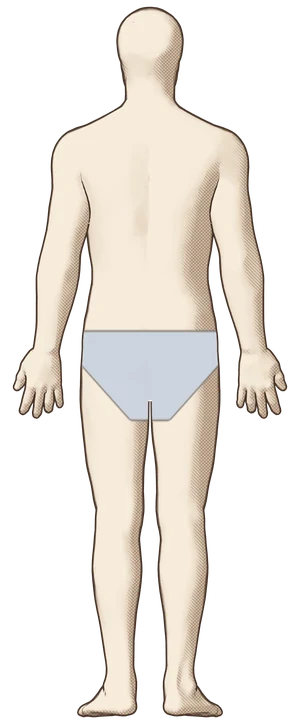
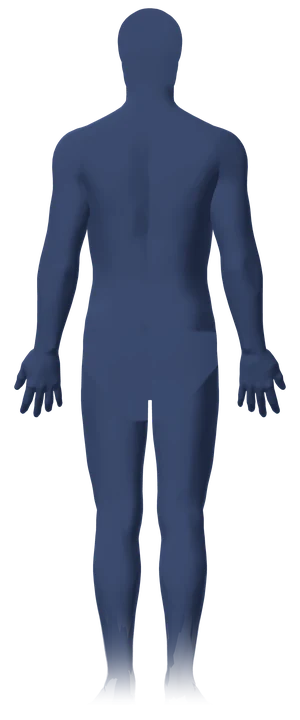
Suivi : carte du corps façon application (zones colorées, pastilles, carte d'état)
- Silhouettes bleu nuit de face et de dos (d'après BodyParts3D, CC BY 4.0)
- Zones en pilule : vert coché = le plus reposé, orange avec « 2 j » = utilisé
  ces 3 derniers jours, contour = disponible ; flancs gauche et droit ajoutés
- En-tête « Dernier : … », carte de l'endroit choisi, liste complète repliable
- Surfaces de clic agrandies, textes FR / EN / AR, mode sombre

Claude-Session: https://claude.ai/code/session_01DJcaTqVg4gRoRzVNXaW9u5

diff --git a/suivi/suivi.js b/suivi/suivi.js
@@ -67,6 +67,8 @@ const SITES = [
   { id: "arm-r", fr: "Bras droit", en: "Right arm", ar: "الذراع الأيمن" },
   { id: "glute-l", fr: "Fessier gauche", en: "Left glute", ar: "الألية اليسرى" },
   { id: "glute-r", fr: "Fessier droit", en: "Right glute", ar: "الألية اليمنى" },
+  { id: "flank-l", fr: "Flanc gauche", en: "Left flank", ar: "الخاصرة اليسرى" },
+  { id: "flank-r", fr: "Flanc droit", en: "Right flank", ar: "الخاصرة اليمنى" },
 ];
 const siteName = (id) => { const x = SITES.find((k) => k.id === id); return x ? t(x.fr, x.en, x.ar) : ""; };
 
@@ -573,28 +575,35 @@ function lastBySite() {
   }));
   return last;
 }
-const restLevel = (ms) => { if (ms === undefined) return "rest"; const d = dayDiff(ms, Date.now()); return d < 2 ? "fresh" : d < 7 ? "mid" : "rest"; };
-const SIDE = { fr: ["D", "G"], en: ["R", "L"], ar: ["يمين", "يسار"] }[LANG] || ["R", "L"];
-// Croquis anatomiques rendus depuis le modèle BodyParts3D (images 300 × 720) et position de chaque endroit sur l'image.
+const SIDE = { fr: ["D", "G"], en: ["R", "L"], ar: ["ي", "س"] }[LANG] || ["R", "L"];
+// Silhouettes rendues depuis le modèle BodyParts3D (images 300 × 720) et position de chaque endroit sur l'image.
 // De face, la gauche de la personne est à droite de l'image ; de dos, elle est à gauche.
-const BODY_MAP = {"front": [["abd-l", 176.9, 304.3, 17.1, 20.6], ["abd-r", 123.1, 304.3, 17.1, 20.6], ["thigh-l", 186.9, 425.6, 18.3, 35], ["thigh-r", 113.6, 425.6, 18.3, 35]], "back": [["arm-l", 67.5, 201.9, 13, 24.7], ["arm-r", 232.2, 201.9, 13, 24.7], ["glute-l", 107.7, 343.4, 20.4, 17.3], ["glute-r", 192.3, 343.4, 20.4, 17.3]]};
+const BODY_MAP = {"front": [["abd-l", 176.9, 304.3, 17.1, 20.6], ["abd-r", 123.1, 304.3, 17.1, 20.6], ["thigh-l", 186.9, 425.6, 18.3, 35], ["thigh-r", 113.6, 425.6, 18.3, 35]], "back": [["arm-l", 67.5, 201.9, 13, 24.7], ["arm-r", 232.2, 201.9, 13, 24.7], ["glute-l", 110.1, 351.6, 20.4, 16.5], ["glute-r", 189.9, 351.6, 20.4, 16.5], ["flank-l", 107.2, 296.1, 13, 22.6], ["flank-r", 192.8, 296.1, 13, 22.6]]};
+const NAVEL = [150, 302.3, 12.2];
+const RECENT_DAYS = 3;
 function bodyView(key, label, marks) {
+  // Chaque zone : une surface de clic plus large (invisible), la pilule, la pastille « 2 j » au-dessus, la coche au centre
+  const hits = (x, y, own) => BODY_MAP[key].some(([o, ox, oy, orx, ory]) => o !== own && Math.abs(x - ox) < orx + 30 && Math.abs(y - oy) < ory + 15);
+  const zonesSvg = BODY_MAP[key].map(([id, cx, cy, rx, ry]) => { const by = hits(cx, cy - ry - 16, id) ? cy + ry + 16 : cy - ry - 16; return `<g class="bm-z" data-site="${id}">
+      <rect class="bm-hit" x="${(cx - rx - 10).toFixed(1)}" y="${(cy - ry - 8).toFixed(1)}" width="${(2 * rx + 20).toFixed(1)}" height="${(2 * ry + 16).toFixed(1)}"/>
+      <rect class="bm-zone" x="${(cx - rx).toFixed(1)}" y="${(cy - ry).toFixed(1)}" width="${(2 * rx).toFixed(1)}" height="${(2 * ry).toFixed(1)}" rx="${Math.min(rx, ry).toFixed(1)}"/>
+      <g class="bm-badge" transform="translate(${cx.toFixed(1)} ${by.toFixed(1)})"><rect x="-23" y="-15" width="46" height="30" rx="15"/><text y="6"></text></g>
+      <g class="bm-check" transform="translate(${cx.toFixed(1)} ${cy.toFixed(1)})"><circle r="14"/><path d="M-6.5 0.5l4.5 4.5 8.5-9.5"/></g>
+    </g>`; }).join("");
+  const navel = key === "front" ? `<circle class="bm-navel" cx="${NAVEL[0]}" cy="${NAVEL[1]}" r="${NAVEL[2]}"/>` : "";
   return `<figure class="bm-view">
     <div class="bm-frame">
       <img src="/suivi/img/corps-${key === "front" ? "face" : "dos"}.webp" alt="" width="300" height="720" decoding="async">
-      <svg viewBox="0 0 300 720" aria-hidden="true">
-        ${BODY_MAP[key].map(([id, cx, cy, rx, ry]) => `<ellipse class="bm-zone" data-site="${id}" cx="${cx}" cy="${cy}" rx="${rx}" ry="${ry}"/>`).join("")}
-        <text class="bm-side" x="14" y="44">${marks[0]}</text><text class="bm-side" x="286" y="44" text-anchor="end">${marks[1]}</text>
-      </svg>
+      <svg viewBox="0 0 300 720" aria-hidden="true">${navel}${zonesSvg}</svg>
     </div>
-    <figcaption>${label}</figcaption>
+    <figcaption><span>${marks[0]}</span>${label}<span>${marks[1]}</span></figcaption>
   </figure>`;
 }
 function buildSiteMap() {
   const [right, left] = SIDE;
   $("siteMap").innerHTML = bodyView("front", t("Devant", "Front", "الأمام"), [right, left]) + bodyView("back", t("Dos", "Back", "الخلف"), [left, right])
-    + `<p class="bm-credit">${t("Croquis d'après BodyParts3D, © DBCLS, CC BY 4.0", "Sketch based on BodyParts3D, © DBCLS, CC BY 4.0", "رسم مأخوذ من BodyParts3D، © DBCLS، CC BY 4.0")}</p>`;
-  $("siteMap").querySelectorAll(".bm-zone").forEach((z) => z.addEventListener("click", () => selectSite(site === z.dataset.site ? "" : z.dataset.site)));
+    + `<p class="bm-credit">${t("Silhouette d'après BodyParts3D, © DBCLS, CC BY 4.0", "Silhouette based on BodyParts3D, © DBCLS, CC BY 4.0", "صورة مأخوذة من BodyParts3D، © DBCLS، CC BY 4.0")}</p>`;
+  $("siteMap").querySelectorAll(".bm-z").forEach((z) => z.addEventListener("click", () => selectSite(site === z.dataset.site ? "" : z.dataset.site)));
   $("siteList").replaceChildren(...SITES.map((k) => {
     const b = document.createElement("button");
     b.type = "button";
@@ -603,30 +612,56 @@ function buildSiteMap() {
     b.addEventListener("click", () => selectSite(site === k.id ? "" : k.id));
     return b;
   }));
+  $("siteToggle").addEventListener("click", () => {
+    const open = $("siteList").hidden;
+    $("siteList").hidden = !open;
+    $("siteToggle").setAttribute("aria-expanded", String(open));
+  });
 }
+// État d'un endroit : le plus reposé (vert, coché), utilisé ces 3 derniers jours (orange, « 2 j »), ou disponible
+const restDays = (ms) => (ms === undefined ? null : dayDiff(ms, Date.now()));
+// Pastille courte : « 2 j » / « 2d » ; en arabe un mot (اليوم, أمس, يومان, 3 أيام), la pastille s'élargit
+const badgeTxt = (d) => (LANG === "ar" ? ["اليوم", "أمس", "يومان"][d] || `${d} أيام` : `${d}${t(" j", "d", "")}`);
 function renderSites() {
-  const last = lastBySite(), now = Date.now();
-  // Le plus reposé : jamais utilisé en premier, sinon la dernière prise la plus ancienne
+  const last = lastBySite();
+  // Le plus reposé : rien n'est coché tant qu'aucune prise n'a d'endroit ; à égalité (jamais utilisé), le premier de la liste
   let best = null;
-  SITES.forEach((k) => { if (best === null || (last[k.id] ?? -Infinity) < (last[best] ?? -Infinity)) best = k.id; });
-  $("siteMap").querySelectorAll(".bm-zone").forEach((z) => {
-    z.setAttribute("class", `bm-zone is-${restLevel(last[z.dataset.site])}${z.dataset.site === site ? " is-sel" : ""}`);
+  if (Object.keys(last).length) SITES.forEach((k) => { if (best === null || (last[k.id] ?? -Infinity) < (last[best] ?? -Infinity)) best = k.id; });
+  const state = (id) => (id === best ? "best" : restDays(last[id]) !== null && restDays(last[id]) <= RECENT_DAYS ? "recent" : "free");
+  $("siteMap").querySelectorAll(".bm-z").forEach((z) => {
+    const id = z.dataset.site, d = restDays(last[id]);
+    z.setAttribute("class", `bm-z is-${state(id)}${id === site ? " is-sel" : ""}`);
+    const txt = d === null ? "" : badgeTxt(d), w = Math.max(46, txt.length * 11 + 14);
+    z.querySelector(".bm-badge text").textContent = txt;
+    z.querySelector(".bm-badge rect").setAttribute("x", String(-w / 2));
+    z.querySelector(".bm-badge rect").setAttribute("width", String(w));
   });
   $("siteList").querySelectorAll(".site-btn").forEach((b) => {
-    const id = b.dataset.site, ms = last[id];
-    const d = ms === undefined ? null : dayDiff(ms, now);
+    const id = b.dataset.site, d = restDays(last[id]);
     const dot = document.createElement("i");
-    dot.className = `is-${restLevel(ms)}`;
+    dot.className = `is-${state(id)}`;
     const nm = document.createElement("b");
     nm.textContent = siteName(id);
     const rest = document.createElement("span");
     rest.textContent = d === null ? t("jamais utilisé", "never used", "لم يُستخدم")
       : d === 0 ? t("utilisé aujourd'hui", "used today", "استُخدم اليوم")
-      : t(`repos : ${days(d)}`, `rested ${days(d)}`, `راحة: ${days(d)}`);
+      : t(`il y a ${days(d)}`, `${days(d)} ago`, `منذ ${days(d)}`);
     b.replaceChildren(dot, nm, rest);
-    if (id === best) { const em = document.createElement("em"); em.textContent = t("le plus reposé", "most rested", "الأكثر راحة"); b.append(em); }
     b.setAttribute("aria-pressed", String(id === site));
   });
+  // Dernier endroit utilisé (en-tête) et carte de l'endroit choisi, ou du dernier utilisé
+  let lastId = null;
+  Object.keys(last).forEach((id) => { if (lastId === null || last[id] > last[lastId]) lastId = id; });
+  $("siteLast").textContent = lastId ? t(`Dernier : ${siteName(lastId).toLowerCase()}`, `Last: ${siteName(lastId).toLowerCase()}`, `الأخير: ${siteName(lastId)}`) : "";
+  const shown = site || lastId || best;
+  const st = state(shown), d = restDays(last[shown]);
+  $("siteCard").hidden = !shown;
+  $("siteCard").dataset.state = st;
+  $("scK").textContent = st === "best" ? t("Le plus reposé", "Most rested", "الأكثر راحة") : st === "recent" ? t("Utilisé récemment", "Used recently", "استُخدم مؤخرًا") : t("Disponible", "Available", "متاح");
+  $("scName").textContent = siteName(shown) + (site ? "" : ` · ${t("non choisi", "not selected", "غير محدد")}`);
+  $("scWhen").textContent = d === null ? t("Jamais utilisé", "Never used", "لم يُستخدم قط")
+    : d === 0 ? t("Dernière prise : aujourd'hui", "Last used today", "آخر استخدام: اليوم")
+    : t(`Dernière prise : il y a ${days(d)}`, `Last used ${days(d)} ago`, `آخر استخدام: منذ ${days(d)}`);
 }
 function selectSite(id) { site = id; renderSites(); }
 

diff --git a/suivi/suivi.css b/suivi/suivi.css
@@ -3,16 +3,19 @@
 :root {
   --liq-top: rgba(122, 160, 214, .5); --liq-bot: rgba(52, 92, 156, .66); --liq-edge: rgba(255, 255, 255, .85);
   --glass: rgba(255, 255, 255, .42); --glass-edge: rgba(28, 26, 23, .5); --metal: #b8bbc1; --metal-line: rgba(0, 0, 0, .14);
+  --bm-bg: #ffffff; --bm-bg-2: #e4e9f1; --bm-ok: #3f9a73; --bm-ok-ink: #2f6e52; --bm-warn: #eaa13a; --bm-warn-ink: #8a5408;
 }
 @media (prefers-color-scheme: dark) {
   :root:not([data-theme="light"]) {
     --liq-top: rgba(147, 179, 224, .42); --liq-bot: rgba(104, 146, 210, .6); --liq-edge: rgba(220, 234, 255, .75);
     --glass: rgba(255, 255, 255, .05); --glass-edge: rgba(238, 231, 217, .45); --metal: #6c7280; --metal-line: rgba(0, 0, 0, .3);
+    --bm-bg: #222b3d; --bm-bg-2: #121722; --bm-ok: #46a87f; --bm-ok-ink: #8fd6b4; --bm-warn: #eaa13a; --bm-warn-ink: #f2bf6f;
   }
 }
 :root[data-theme="dark"] {
   --liq-top: rgba(147, 179, 224, .42); --liq-bot: rgba(104, 146, 210, .6); --liq-edge: rgba(220, 234, 255, .75);
   --glass: rgba(255, 255, 255, .05); --glass-edge: rgba(238, 231, 217, .45); --metal: #6c7280; --metal-line: rgba(0, 0, 0, .3);
+  --bm-bg: #222b3d; --bm-bg-2: #121722; --bm-ok: #46a87f; --bm-ok-ink: #8fd6b4; --bm-warn: #eaa13a; --bm-warn-ink: #f2bf6f;
 }
 [hidden] { display: none !important; }
 
@@ -177,40 +180,63 @@ html[lang="ar"] :is(.ro-k, .history h3) { font-size: .86rem; letter-spacing: 0; 
 }
 .swatch[aria-pressed="true"] { box-shadow: 0 0 0 2px var(--paper), 0 0 0 4px var(--sw); transform: scale(1.06); }
 
-/* Endroit de la prise : silhouette de face et de dos + boutons */
-.site-pick { display: grid; grid-template-columns: minmax(0, 1fr) minmax(0, 1.15fr); gap: 14px; align-items: start; }
-@media (max-width: 560px) { .site-pick { grid-template-columns: minmax(0, 1fr); } }
-/* Croquis anatomiques (face / dos) avec les zones par-dessus */
-.site-map { display: grid; grid-template-columns: 1fr 1fr; gap: 6px 10px; direction: ltr; padding: 10px 8px 6px; border-radius: 14px;
-  background: radial-gradient(ellipse 70% 60% at 50% 45%, var(--paper), transparent 75%), var(--field); }
-.bm-view { margin: 0; text-align: center; }
-.bm-frame { position: relative; width: 100%; max-width: 150px; margin-inline: auto; aspect-ratio: 300 / 720; }
+/* Endroit de la prise : deux silhouettes (face / dos) avec les zones par-dessus, comme une carte */
+.site-head { display: flex; flex-wrap: wrap; align-items: baseline; justify-content: space-between; gap: 2px 12px; }
+.site-last { font-size: .8rem; color: var(--muted); }
+.site-map { display: grid; grid-template-columns: 1fr 1fr; gap: 4px 6px; direction: ltr; margin-top: 8px; padding: 16px 10px 8px;
+  border: 1px solid var(--line); border-radius: 18px; background: radial-gradient(ellipse 80% 70% at 50% 40%, var(--bm-bg), var(--bm-bg-2) 85%); }
+.bm-view { margin: 0; }
+.bm-frame { position: relative; width: 100%; max-width: 196px; margin-inline: auto; aspect-ratio: 300 / 720; }
 .bm-frame img, .bm-frame svg { position: absolute; inset: 0; width: 100%; height: 100%; }
-.bm-frame img { filter: drop-shadow(0 6px 8px rgba(40, 30, 20, .12)); }
-.bm-view figcaption { margin-top: 2px; font: 700 .76rem/1.2 var(--f-body); color: var(--sumi-2); }
-.bm-credit { grid-column: 1 / -1; margin: 2px 0 0; font-size: .64rem; color: var(--muted); text-align: center; }
-.bm-zone { cursor: pointer; stroke-width: 3; stroke-dasharray: 7 5; transition: fill .2s, stroke .2s, stroke-width .2s; }
-.bm-zone.is-fresh { fill: var(--shu); fill-opacity: .42; stroke: var(--shu); }
-.bm-zone.is-mid { fill: var(--kin); fill-opacity: .4; stroke: var(--kin); }
-.bm-zone.is-rest { fill: var(--matcha); fill-opacity: .34; stroke: var(--matcha); }
-@media (hover: hover) { .bm-zone:hover { fill-opacity: .6; } }
-.bm-zone.is-sel { fill-opacity: .7; stroke: var(--sumi); stroke-width: 5; stroke-dasharray: none; }
-.bm-side { fill: var(--muted); font: 700 26px var(--f-body); }
-.site-list { display: grid; grid-template-columns: repeat(2, minmax(0, 1fr)); gap: 6px; }
+.bm-frame img { filter: drop-shadow(0 10px 12px rgba(20, 30, 60, .22)); }
+.bm-frame svg { overflow: visible; }
+.bm-view figcaption { display: flex; justify-content: space-between; align-items: baseline; max-width: 196px; margin: 4px auto 0; padding-inline: 4px;
+  font: 700 .8rem/1.2 var(--f-body); color: var(--sumi); }
+.bm-view figcaption span { font-size: .72rem; color: var(--muted); }
+.bm-credit { grid-column: 1 / -1; margin: 6px 0 0; font-size: .64rem; color: var(--muted); text-align: center; }
+.bm-navel { fill: none; stroke: rgba(226, 234, 248, .75); stroke-width: 2; stroke-dasharray: 3 3; }
+.bm-z { cursor: pointer; }
+.bm-hit { fill: transparent; }
+.bm-zone { fill: rgba(255, 255, 255, .06); stroke: rgba(226, 234, 248, .8); stroke-width: 2.5; stroke-dasharray: 6 5; transition: fill .2s, stroke .2s, stroke-width .2s; }
+.bm-z.is-best .bm-zone { fill: var(--bm-ok); fill-opacity: .9; stroke: #9be0bf; stroke-dasharray: none; }
+.bm-z.is-recent .bm-zone { fill: var(--bm-warn); fill-opacity: .9; stroke: #ffd08a; stroke-dasharray: none; }
+@media (hover: hover) { .bm-z:hover .bm-zone { stroke-width: 4; fill-opacity: 1; } }
+.bm-z.is-sel .bm-zone { stroke: #ffffff; stroke-width: 5; stroke-dasharray: none; filter: drop-shadow(0 0 6px rgba(255, 255, 255, .7)); }
+.bm-badge, .bm-check { display: none; pointer-events: none; }
+.bm-z.is-recent .bm-badge, .bm-z.is-best .bm-check { display: inline; }
+.bm-badge rect { fill: var(--bm-warn); stroke: #ffffff; stroke-width: 2.5; }
+.bm-badge text { fill: #2b1a04; font: 700 19px var(--f-body); text-anchor: middle; }
+.bm-check circle { fill: var(--bm-ok); stroke: #ffffff; stroke-width: 2.5; }
+.bm-check path { fill: none; stroke: #ffffff; stroke-width: 3.5; stroke-linecap: round; stroke-linejoin: round; }
+/* Carte de l'endroit choisi (ou du dernier utilisé) */
+.site-card { margin-top: 10px; padding: 11px 14px; border: 1px solid var(--line); border-inline-start: 4px solid var(--line-strong); border-radius: 14px; background: var(--paper); }
+.site-card p { margin: 0; }
+.sc-k { font: 700 .68rem/1.3 var(--f-body); letter-spacing: .08em; text-transform: uppercase; color: var(--muted); }
+.sc-name { margin-top: 2px !important; font: 700 1rem/1.3 var(--f-body); color: var(--sumi); }
+.sc-when { font-size: .8rem; color: var(--sumi-2); }
+.site-card[data-state="best"] { border-inline-start-color: var(--bm-ok); }
+.site-card[data-state="best"] .sc-k { color: var(--bm-ok-ink); }
+.site-card[data-state="recent"] { border-inline-start-color: var(--bm-warn); }
+.site-card[data-state="recent"] .sc-k { color: var(--bm-warn-ink); }
+html[lang="ar"] .sc-k { letter-spacing: 0; }
+/* Liste complète, repliée par défaut */
+.site-toggle { margin-top: 6px; gap: 8px; }
+.site-toggle::after { content: ""; width: 7px; height: 7px; margin-top: -3px; border: solid currentColor; border-width: 0 2px 2px 0; transform: rotate(45deg); transition: transform .2s; }
+.site-toggle[aria-expanded="true"]::after { margin-top: 3px; transform: rotate(-135deg); }
+.site-list { display: grid; grid-template-columns: repeat(2, minmax(0, 1fr)); gap: 6px; margin-top: 6px; }
 .site-btn {
   position: relative; display: grid; grid-template-columns: auto minmax(0, 1fr); column-gap: 7px; align-items: center; padding: 7px 9px;
   border: 1px solid var(--line-strong); border-radius: 10px; background: var(--paper); color: var(--sumi); font: inherit; text-align: start; cursor: pointer;
 }
-.site-btn i { grid-row: 1 / span 2; width: 10px; height: 10px; border-radius: 50%; }
+.site-btn i { grid-row: 1 / span 2; }
 .site-btn b { font-size: .84rem; line-height: 1.2; }
 .site-btn span { font-size: .72rem; color: var(--muted); }
-.site-btn em { grid-column: 2; font: 700 .68rem/1.3 var(--f-body); color: var(--matcha); font-style: normal; }
 .site-btn[aria-pressed="true"] { border-color: var(--sumi); background: var(--sumi); color: var(--paper); }
-.site-btn[aria-pressed="true"] span, .site-btn[aria-pressed="true"] em { color: var(--paper); opacity: .85; }
-.site-legend { display: flex; flex-wrap: wrap; gap: 6px 14px; margin: 4px 0 0; font-size: .76rem; color: var(--muted); }
+.site-btn[aria-pressed="true"] span { color: var(--paper); opacity: .85; }
+.site-legend { display: flex; flex-wrap: wrap; gap: 6px 14px; margin: 8px 0 0; font-size: .76rem; color: var(--muted); }
 .site-legend span { display: inline-flex; align-items: center; gap: 6px; }
-.site-legend i, .site-btn i { display: inline-block; width: 10px; height: 10px; border-radius: 50%; }
-i.is-fresh { background: var(--shu); } i.is-mid { background: var(--kin); } i.is-rest { background: var(--matcha); }
+.site-legend i, .site-btn i { display: inline-block; width: 11px; height: 11px; border-radius: 50%; box-sizing: border-box; }
+i.is-best { background: var(--bm-ok); } i.is-recent { background: var(--bm-warn); } i.is-free { border: 2px dashed var(--muted); }
 
 /* Modification d'une prise : le formulaire est encadré */
 #dosePanel.is-editing .form-body { box-shadow: inset 4px 0 0 var(--kin); background: var(--kin-soft); }

diff --git a/ar/suivi/index.html b/ar/suivi/index.html
@@ -223,13 +223,13 @@
             <input class="text-field" id="dsTime" type="datetime-local">
           </div>
           <div class="site-field">
-            <span class="form-label" id="lblSite">مكان الحقن (اختياري)</span>
-            <div class="site-pick">
-              <div class="site-map" id="siteMap" aria-hidden="true"></div>
-              <div class="site-list" id="siteList" role="group" aria-labelledby="lblSite"></div>
-            </div>
-            <p class="hint">اليسار واليمين بالنسبة إليك. يُظهر اللون مدة الراحة منذ آخر جرعة في هذا المكان.</p>
-            <p class="site-legend"><span><i class="is-fresh"></i>أقل من يومين</span><span><i class="is-mid"></i>من 2 إلى 6 أيام</span><span><i class="is-rest"></i>7 أيام أو أكثر، أو لم يُستخدم</span></p>
+            <div class="site-head"><span class="form-label" id="lblSite">مكان الحقن (اختياري)</span><span class="site-last" id="siteLast"></span></div>
+            <div class="site-map" id="siteMap" aria-hidden="true"></div>
+            <p class="site-legend"><span><i class="is-best"></i>الأكثر راحة</span><span><i class="is-recent"></i>استُخدم خلال آخر 3 أيام</span><span><i class="is-free"></i>متاح</span></p>
+            <div class="site-card" id="siteCard" hidden><p class="sc-k" id="scK"></p><p class="sc-name" id="scName"></p><p class="sc-when" id="scWhen"></p></div>
+            <p class="hint">المس منطقة على الجسم. ي و س = يمينك ويسارك.</p>
+            <button class="link-btn site-toggle" id="siteToggle" type="button" aria-expanded="false" aria-controls="siteList">كل الأماكن</button>
+            <div class="site-list" id="siteList" role="group" aria-labelledby="lblSite" hidden></div>
           </div>
           <div>
             <label for="dsNote">ملاحظة (اختياري)</label>

diff --git a/suivi/index.html b/suivi/index.html
@@ -221,13 +221,13 @@
             <input class="text-field" id="dsTime" type="datetime-local">
           </div>
           <div class="site-field">
-            <span class="form-label" id="lblSite">Endroit de la prise (facultatif)</span>
-            <div class="site-pick">
-              <div class="site-map" id="siteMap" aria-hidden="true"></div>
-              <div class="site-list" id="siteList" role="group" aria-labelledby="lblSite"></div>
-            </div>
-            <p class="hint">Gauche et droite = les tiennes. La couleur montre le repos depuis la dernière prise à cet endroit.</p>
-            <p class="site-legend"><span><i class="is-fresh"></i>Moins de 2 jours</span><span><i class="is-mid"></i>2 à 6 jours</span><span><i class="is-rest"></i>7 jours et plus, ou jamais</span></p>
+            <div class="site-head"><span class="form-label" id="lblSite">Endroit de la prise (facultatif)</span><span class="site-last" id="siteLast"></span></div>
+            <div class="site-map" id="siteMap" aria-hidden="true"></div>
+            <p class="site-legend"><span><i class="is-best"></i>Le plus reposé</span><span><i class="is-recent"></i>Utilisé ces 3 derniers jours</span><span><i class="is-free"></i>Disponible</span></p>
+            <div class="site-card" id="siteCard" hidden><p class="sc-k" id="scK"></p><p class="sc-name" id="scName"></p><p class="sc-when" id="scWhen"></p></div>
+            <p class="hint">Touche une zone sur le corps. D et G = ta droite et ta gauche.</p>
+            <button class="link-btn site-toggle" id="siteToggle" type="button" aria-expanded="false" aria-controls="siteList">Tous les endroits</button>
+            <div class="site-list" id="siteList" role="group" aria-labelledby="lblSite" hidden></div>
           </div>
           <div>
             <label for="dsNote">Note (facultatif)</label>

diff --git a/en/suivi/index.html b/en/suivi/index.html
@@ -221,13 +221,13 @@
             <input class="text-field" id="dsTime" type="datetime-local">
           </div>
           <div class="site-field">
-            <span class="form-label" id="lblSite">Injection site (optional)</span>
-            <div class="site-pick">
-              <div class="site-map" id="siteMap" aria-hidden="true"></div>
-              <div class="site-list" id="siteList" role="group" aria-labelledby="lblSite"></div>
-            </div>
-            <p class="hint">Left and right are yours. The color shows the rest since the last dose at that site.</p>
-            <p class="site-legend"><span><i class="is-fresh"></i>Under 2 days</span><span><i class="is-mid"></i>2 to 6 days</span><span><i class="is-rest"></i>7 days or more, or never</span></p>
+            <div class="site-head"><span class="form-label" id="lblSite">Injection site (optional)</span><span class="site-last" id="siteLast"></span></div>
+            <div class="site-map" id="siteMap" aria-hidden="true"></div>
+            <p class="site-legend"><span><i class="is-best"></i>Most rested</span><span><i class="is-recent"></i>Used in the last 3 days</span><span><i class="is-free"></i>Available</span></p>
+            <div class="site-card" id="siteCard" hidden><p class="sc-k" id="scK"></p><p class="sc-name" id="scName"></p><p class="sc-when" id="scWhen"></p></div>
+            <p class="hint">Tap an area on the body. R and L = your right and left.</p>
+            <button class="link-btn site-toggle" id="siteToggle" type="button" aria-expanded="false" aria-controls="siteList">All sites</button>
+            <div class="site-list" id="siteList" role="group" aria-labelledby="lblSite" hidden></div>
           </div>
           <div>
             <label for="dsNote">Note (optional)</label>

diff --git a/sw.js b/sw.js
@@ -2,7 +2,7 @@
 // Pages, styles et scripts : toujours la version en ligne (revérifiée auprès du serveur), la mémoire seulement
 // hors connexion. Ainsi une page neuve n'est jamais affichée avec un ancien style (icônes géantes, menu cassé).
 // Polices, images, modèle 3D et moteur 3D (lourds, rarement modifiés) : mémoire d'abord, mise à jour en arrière-plan.
-const VERSION = "aurapept-2026-10-29d";
+const VERSION = "aurapept-2026-10-29e";
 const CORE = [
   "/", "/404.html", "/manifest.webmanifest",
   "/assets/style.css", "/assets/app.js", "/assets/theme.js",
